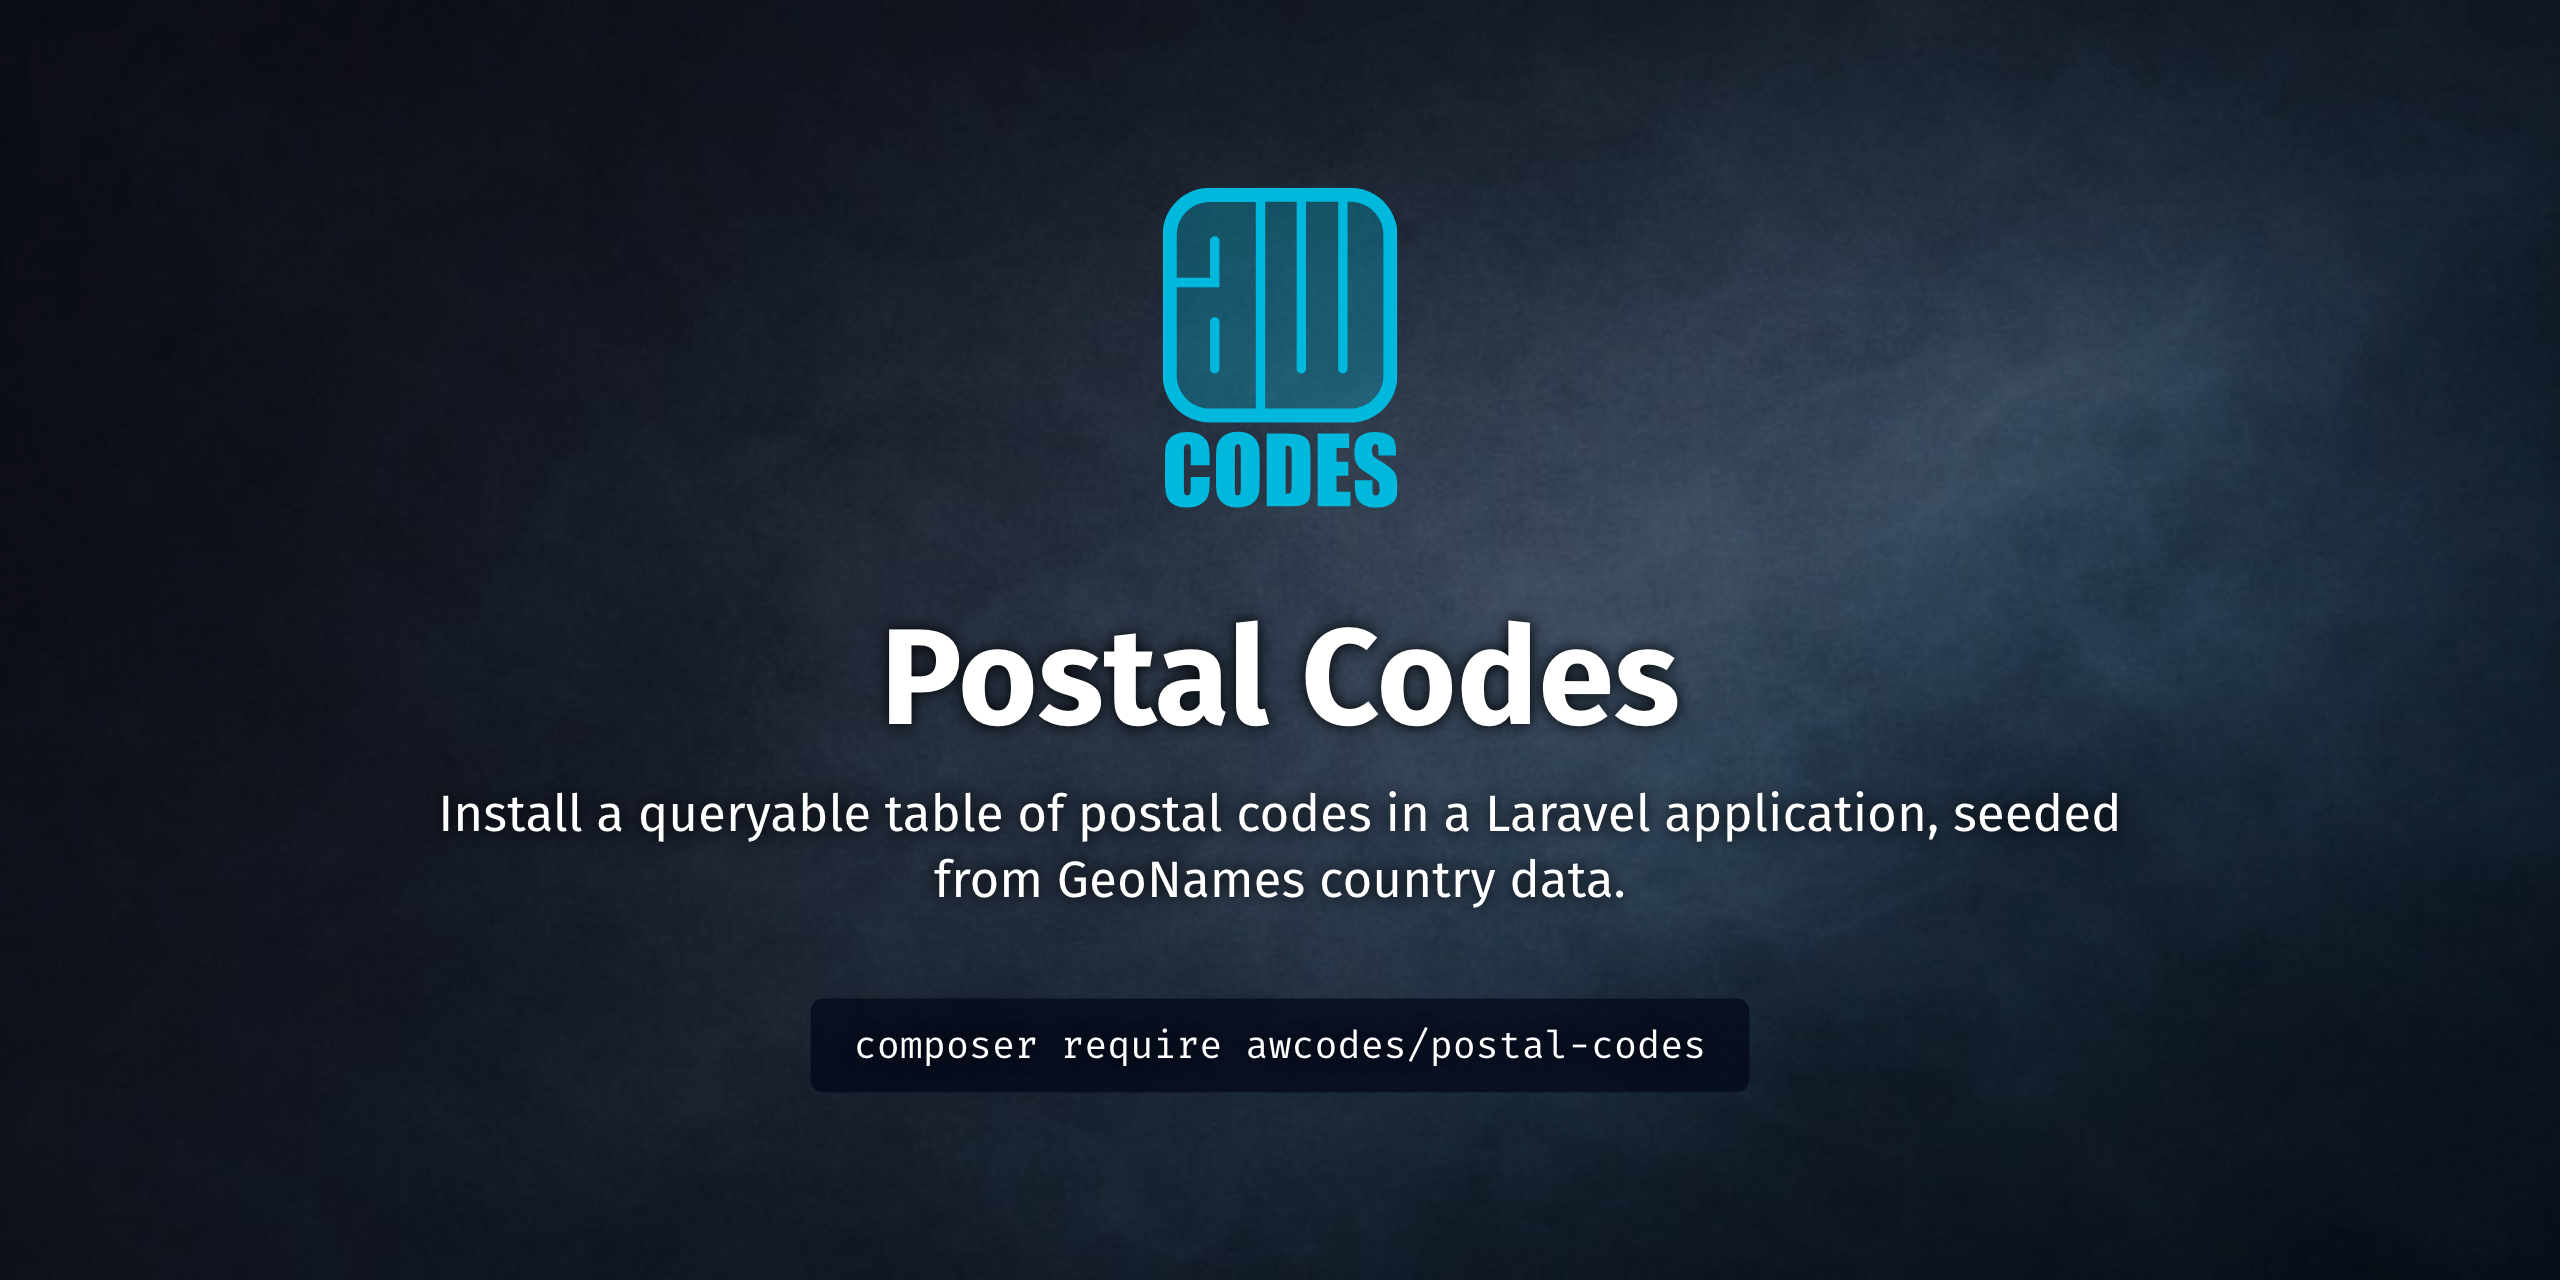
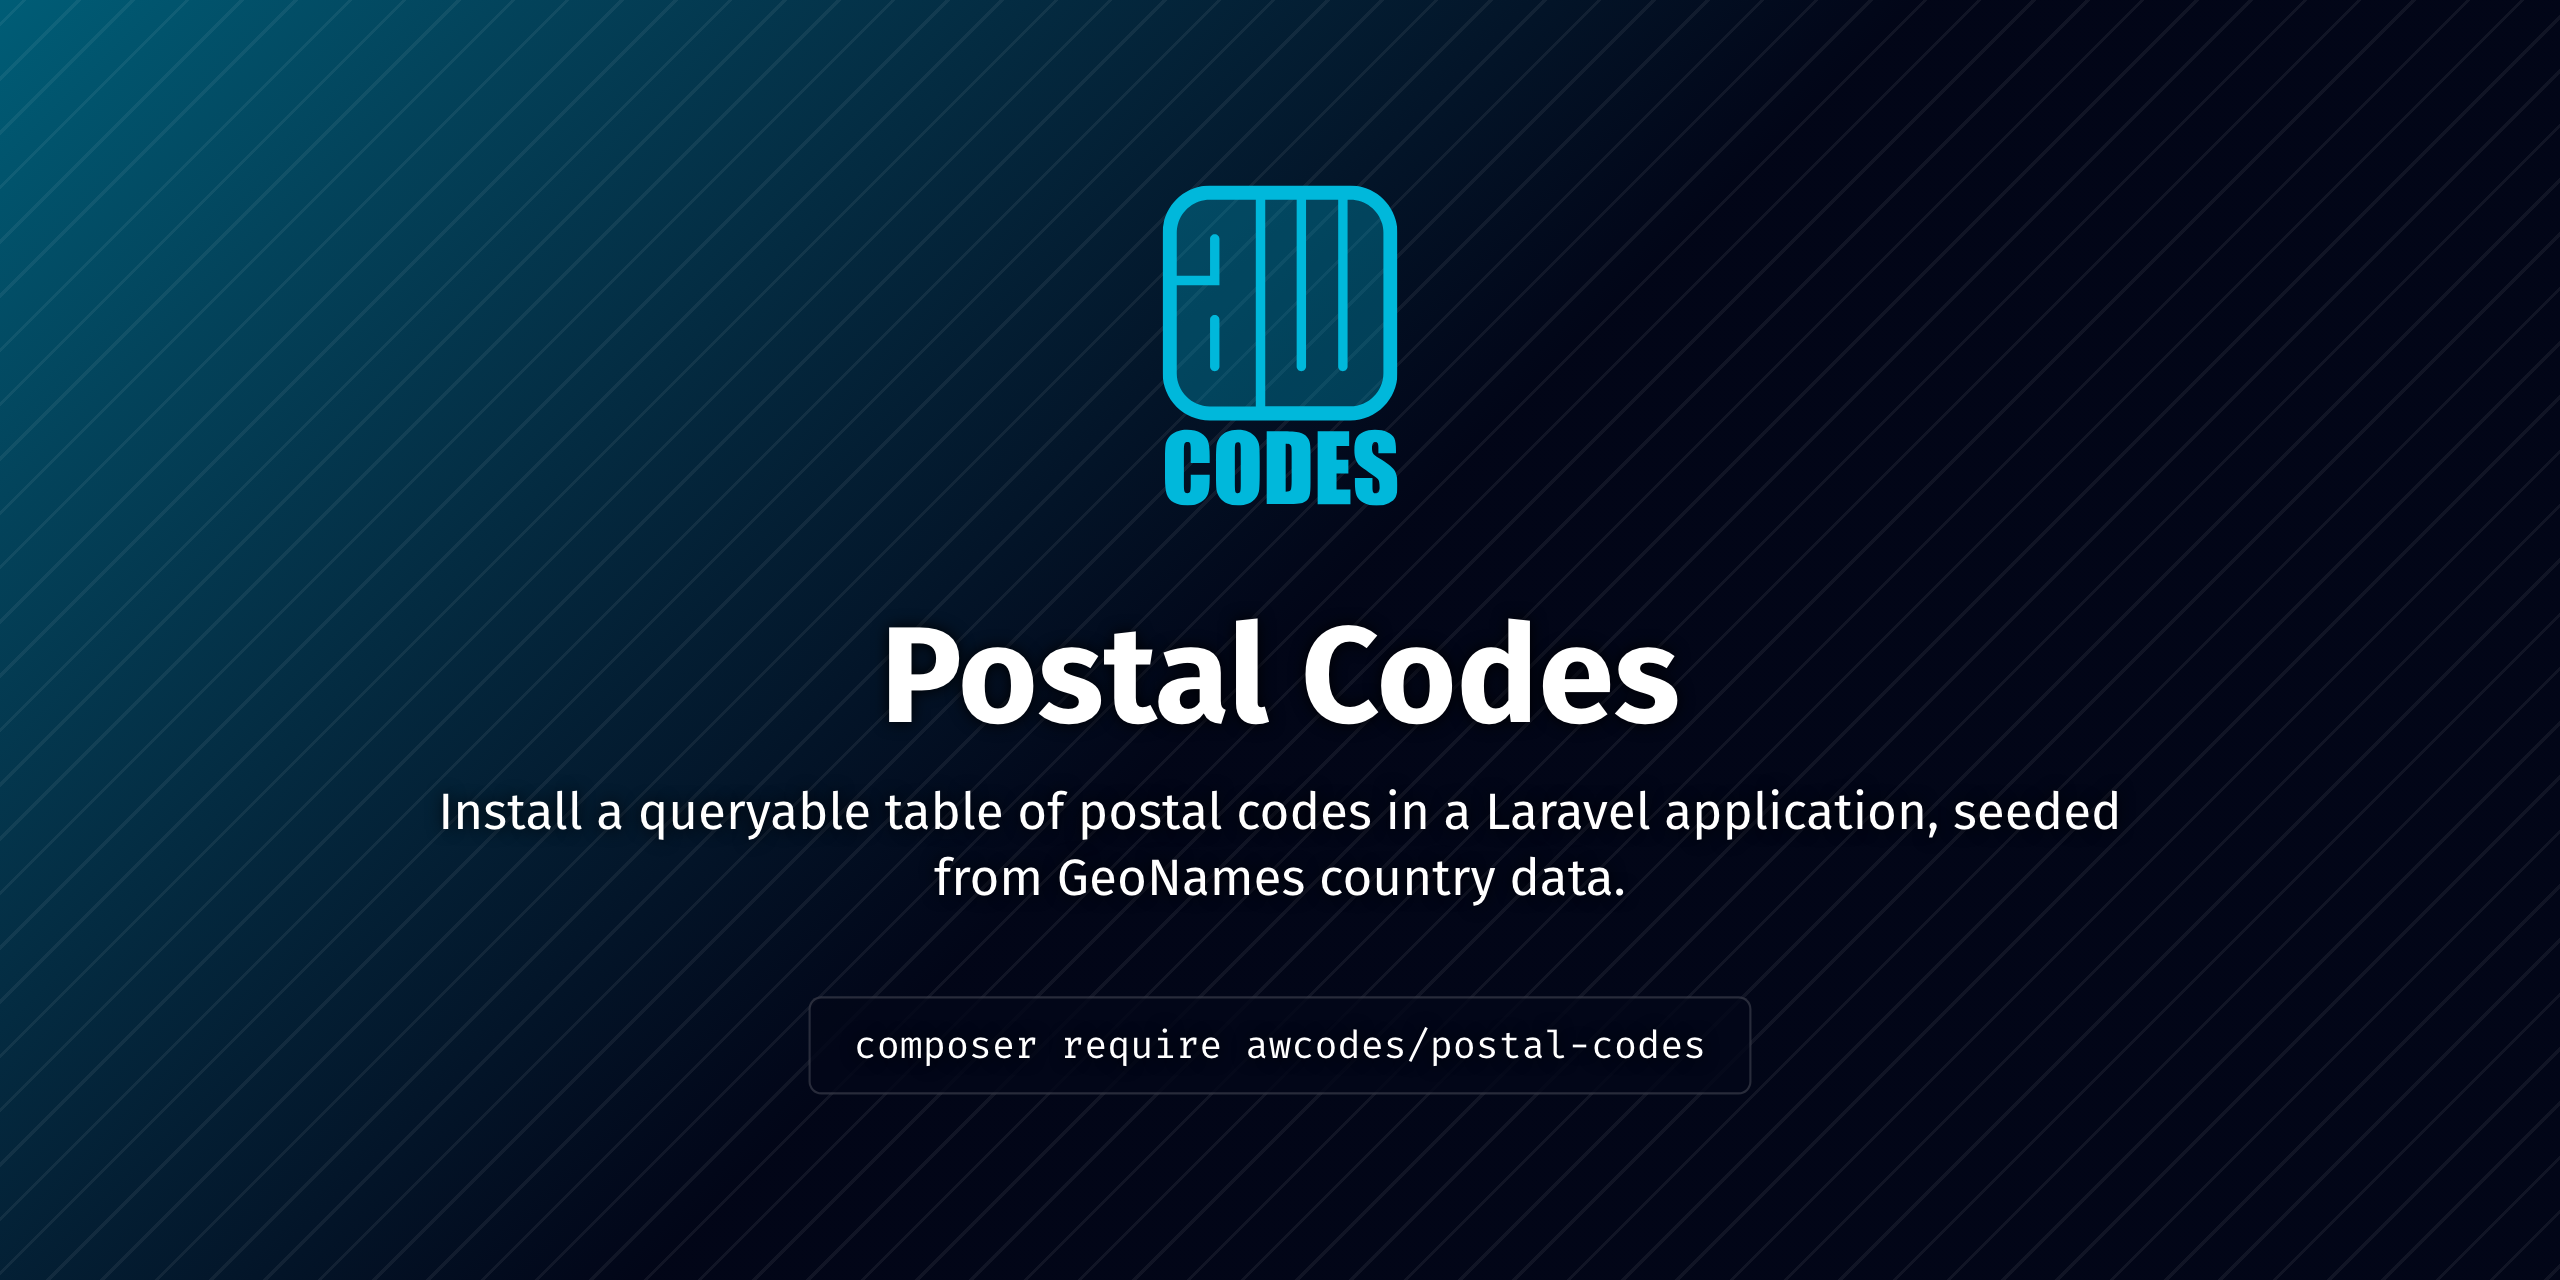
chore: move Focus cards to focus-templates v2.0.0

diff --git a/focus.php b/focus.php
@@ -13,7 +13,7 @@ use Awcodes\Focus\ScreenshotSuite;
  */
 
 return ScreenshotSuite::make()
-    ->cardTemplates('https://github.com/awcodes/focus-templates/tree/v1.1.1/dist')
+    ->cardTemplates('https://github.com/awcodes/focus-templates/tree/v2.0.0/dist')
     ->cards([
         // Open Graph and the GitHub social preview share one 2400x1260 template; GitHub crops 30px top and bottom.
         Card::make('social')
